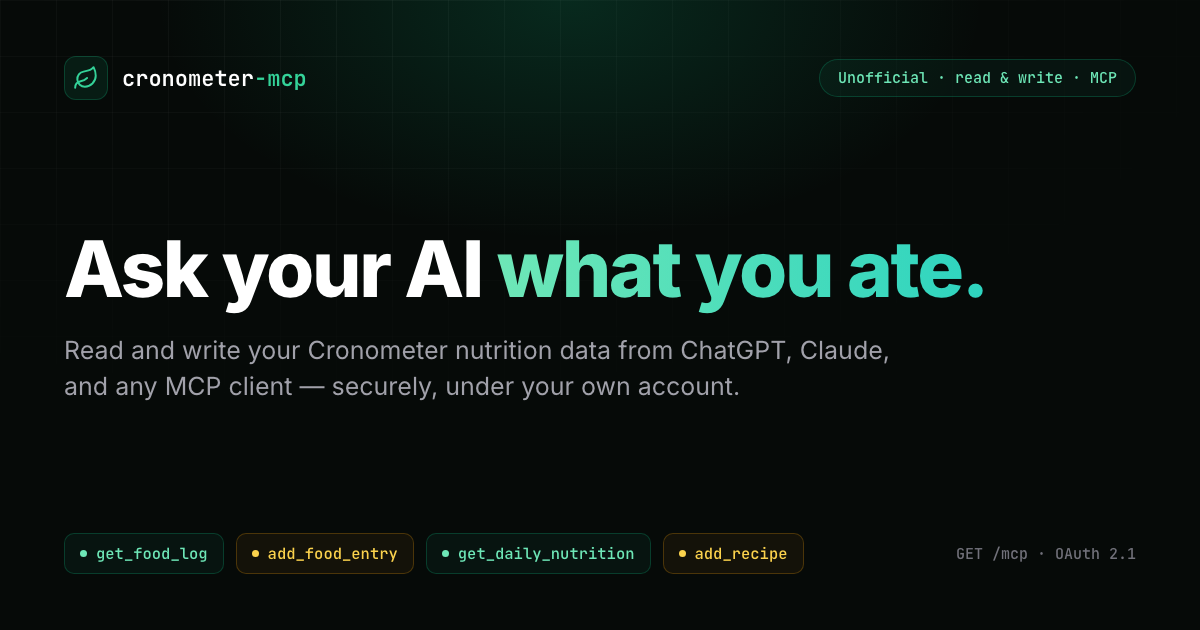
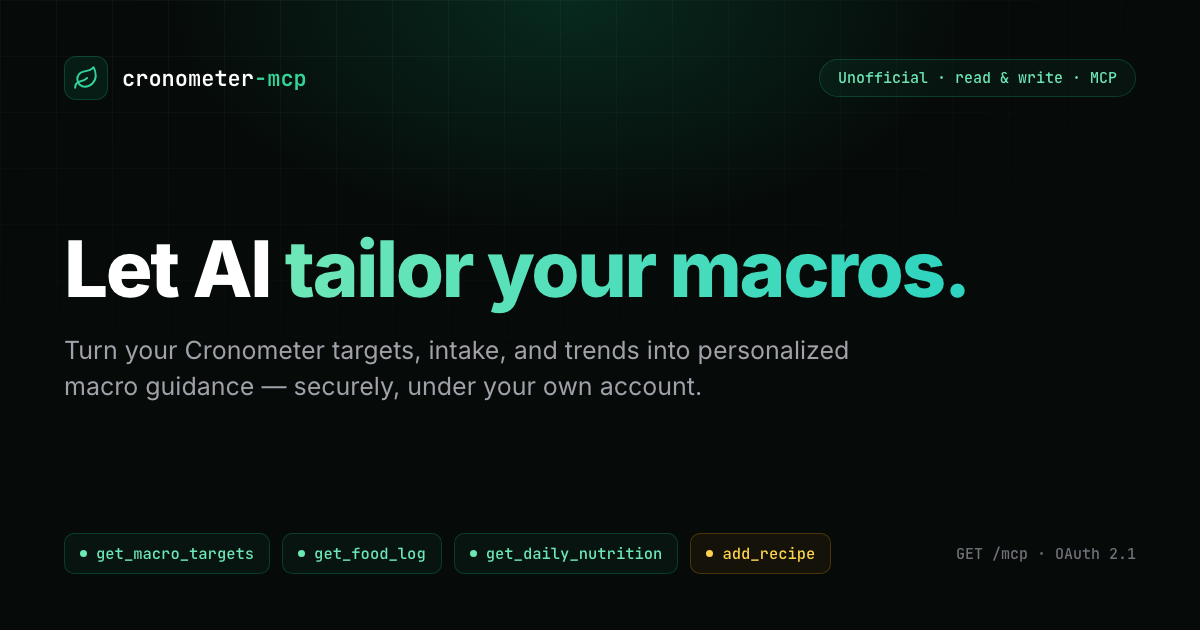
feat: update framing

diff --git a/apps/homepage/src/App.tsx b/apps/homepage/src/App.tsx
@@ -234,20 +234,20 @@ function TerminalCard() {
         <div className="rounded-xl bg-white/[0.03] p-3.5 ring-1 ring-white/5">
           <p className="text-sky-300">you ›</p>
           <p className="mt-0.5 text-zinc-300">
-            Log 150 g of chicken breast for lunch, then tell me where my protein stands.
+            I’m lifting this evening. How should I shape the rest of today’s macros?
           </p>
         </div>
         <div className="rounded-xl bg-white/[0.03] p-3.5 ring-1 ring-white/5">
-          <p className="text-fuchsia-300">tool › add_food_entry</p>
+          <p className="text-fuchsia-300">tool › get_daily_nutrition</p>
           <p className="mt-0.5 break-all text-zinc-500">
-            {'{ "foodId": 89231, "measureId": 12, "grams": 150, "diaryGroup": "lunch" }'}
+            {'{ "date": "today", "targets": true, "diary": true }'}
           </p>
         </div>
         <div className="rounded-xl bg-white/[0.03] p-3.5 ring-1 ring-white/5">
           <p className="text-emerald-300">assistant ›</p>
           <p className="mt-0.5 text-zinc-300">
-            Logged — that adds 47 g of protein. You&apos;re at 143 g for the day, just past your
-            140 g target.
+            You have 850 kcal left. Aim for 62 g protein, 90 g carbs, and 18 g fat — with more of
+            those carbs around your workout.
           </p>
         </div>
       </div>
@@ -267,15 +267,15 @@ function Hero() {
             Unofficial · read & write · Model Context Protocol
           </div>
           <h1 className="mt-6 text-4xl font-extrabold tracking-tight text-white sm:text-5xl lg:text-6xl">
-            Ask your AI{" "}
+            Let AI{" "}
             <span className="bg-gradient-to-r from-emerald-300 to-teal-400 bg-clip-text text-transparent">
-              what you ate.
+              tailor your macros.
             </span>
           </h1>
           <p className="mt-6 max-w-xl text-lg leading-relaxed text-zinc-400">
-            Cronometer MCP is a Cloudflare Worker that speaks the Model Context Protocol, so
-            ChatGPT, Claude, and any MCP client can read — and even log — your Cronometer nutrition
-            data. Securely, under your own account.
+            Give ChatGPT, Claude, or any MCP client live access to your Cronometer targets, intake,
+            and trends — so it can help shape your macros around your goals and keep your food log
+            up to date. Securely, under your own account.
           </p>
           <div className="mt-8 flex flex-wrap items-center gap-4">
             <a

diff --git a/apps/homepage/index.html b/apps/homepage/index.html
@@ -6,9 +6,31 @@
     <meta name="viewport" content="width=device-width, initial-scale=1.0" />
     <meta
       name="description"
-      content="Cronometer MCP is a read-only Model Context Protocol server that connects your Cronometer nutrition data to ChatGPT, Claude, and any MCP client."
+      content="Let AI help tailor your macros with live access to your Cronometer targets, intake, trends, and food log."
     />
-    <title>Cronometer MCP — Your nutrition data, in any AI assistant</title>
+    <link rel="canonical" href="https://cronometer-mcp.dev/" />
+    <meta property="og:type" content="website" />
+    <meta property="og:url" content="https://cronometer-mcp.dev/" />
+    <meta property="og:title" content="Cronometer MCP — Let AI tailor your macros" />
+    <meta
+      property="og:description"
+      content="Turn your Cronometer targets, intake, and trends into personalized macro guidance."
+    />
+    <meta property="og:image" content="https://cronometer-mcp.dev/og.png" />
+    <meta property="og:image:secure_url" content="https://cronometer-mcp.dev/og.png" />
+    <meta property="og:image:type" content="image/png" />
+    <meta property="og:image:width" content="1200" />
+    <meta property="og:image:height" content="630" />
+    <meta property="og:image:alt" content="Cronometer MCP — Let AI tailor your macros" />
+    <meta name="twitter:card" content="summary_large_image" />
+    <meta name="twitter:title" content="Cronometer MCP — Let AI tailor your macros" />
+    <meta
+      name="twitter:description"
+      content="Turn your Cronometer targets, intake, and trends into personalized macro guidance."
+    />
+    <meta name="twitter:image" content="https://cronometer-mcp.dev/og.png" />
+    <meta name="twitter:image:alt" content="Cronometer MCP — Let AI tailor your macros" />
+    <title>Cronometer MCP — Let AI tailor your macros</title>
     <link rel="preconnect" href="https://fonts.googleapis.com" />
     <link rel="preconnect" href="https://fonts.gstatic.com" crossorigin />
     <link

diff --git a/apps/homepage/scripts/og-image.html b/apps/homepage/scripts/og-image.html
@@ -170,15 +170,15 @@
       <div class="badge">Unofficial · read &amp; write · MCP</div>
     </div>
     <div>
-      <h1>Ask your AI <span>what you ate.</span></h1>
+      <h1>Let AI <span>tailor your macros.</span></h1>
       <p class="sub">
-        Read and write your Cronometer nutrition data from ChatGPT, Claude, and any MCP client —
+        Turn your Cronometer targets, intake, and trends into personalized macro guidance —
         securely, under your own account.
       </p>
     </div>
     <div class="chips">
+      <div class="chip read"><span class="dot"></span>get_macro_targets</div>
       <div class="chip read"><span class="dot"></span>get_food_log</div>
-      <div class="chip write"><span class="dot"></span>add_food_entry</div>
       <div class="chip read"><span class="dot"></span>get_daily_nutrition</div>
       <div class="chip write"><span class="dot"></span>add_recipe</div>
       <div class="endpoint">GET /mcp · OAuth 2.1</div>
